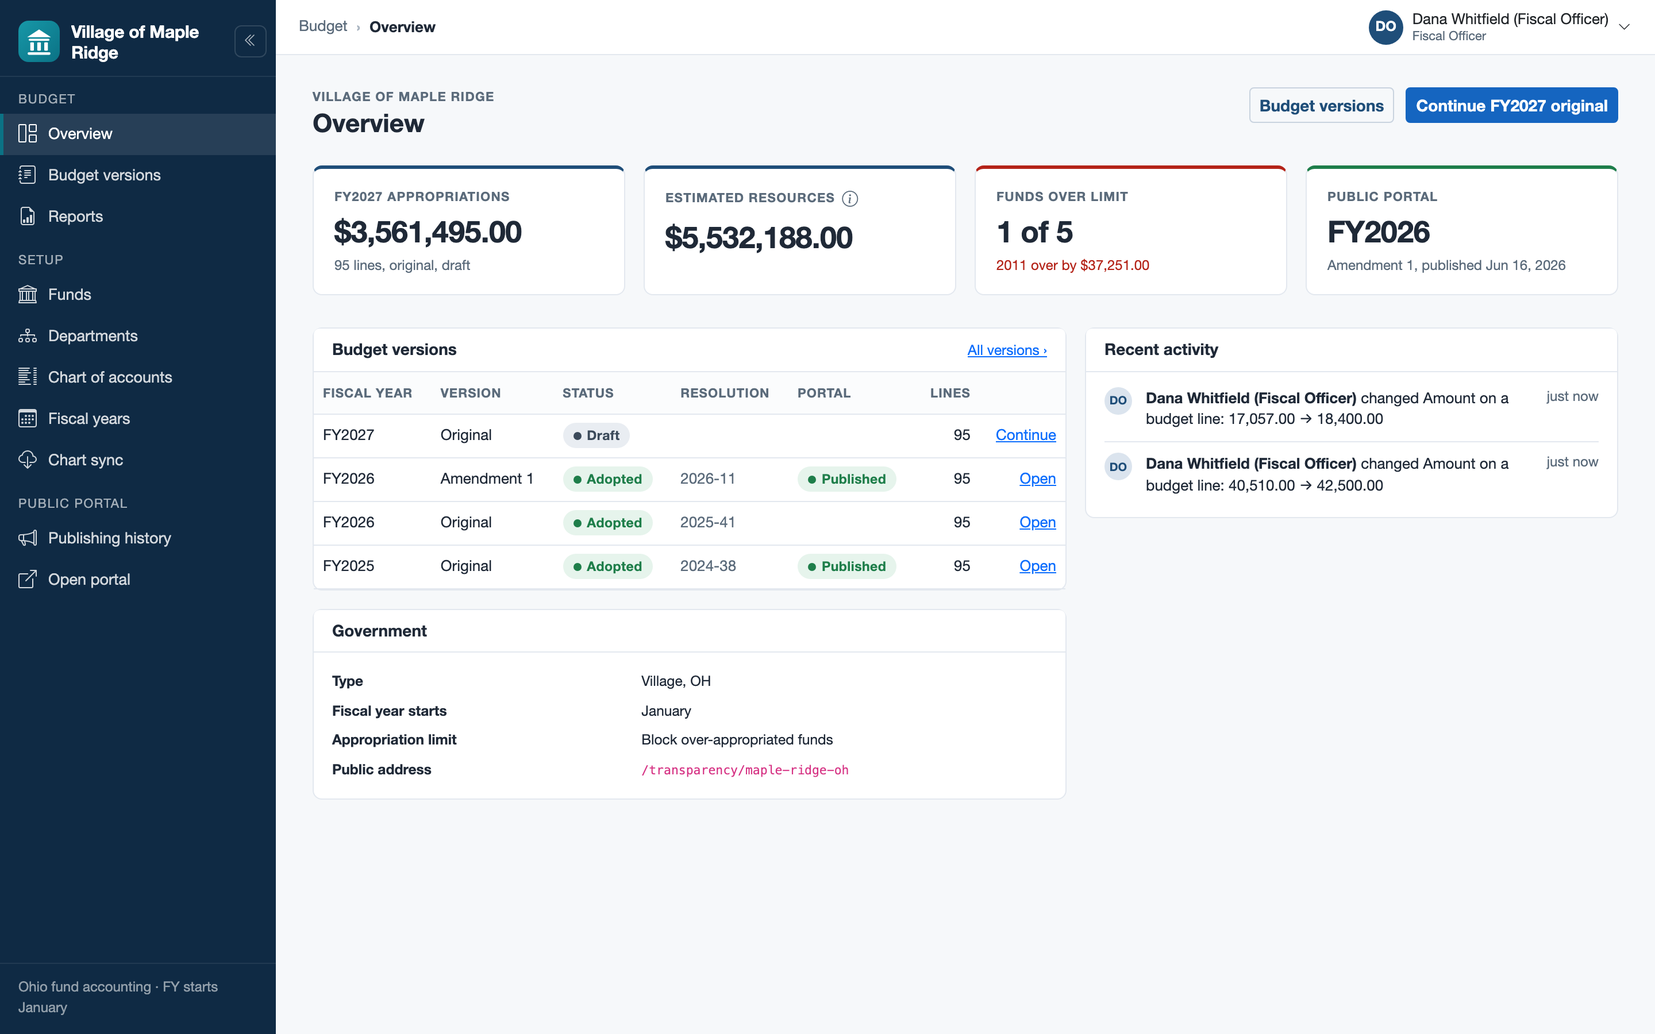
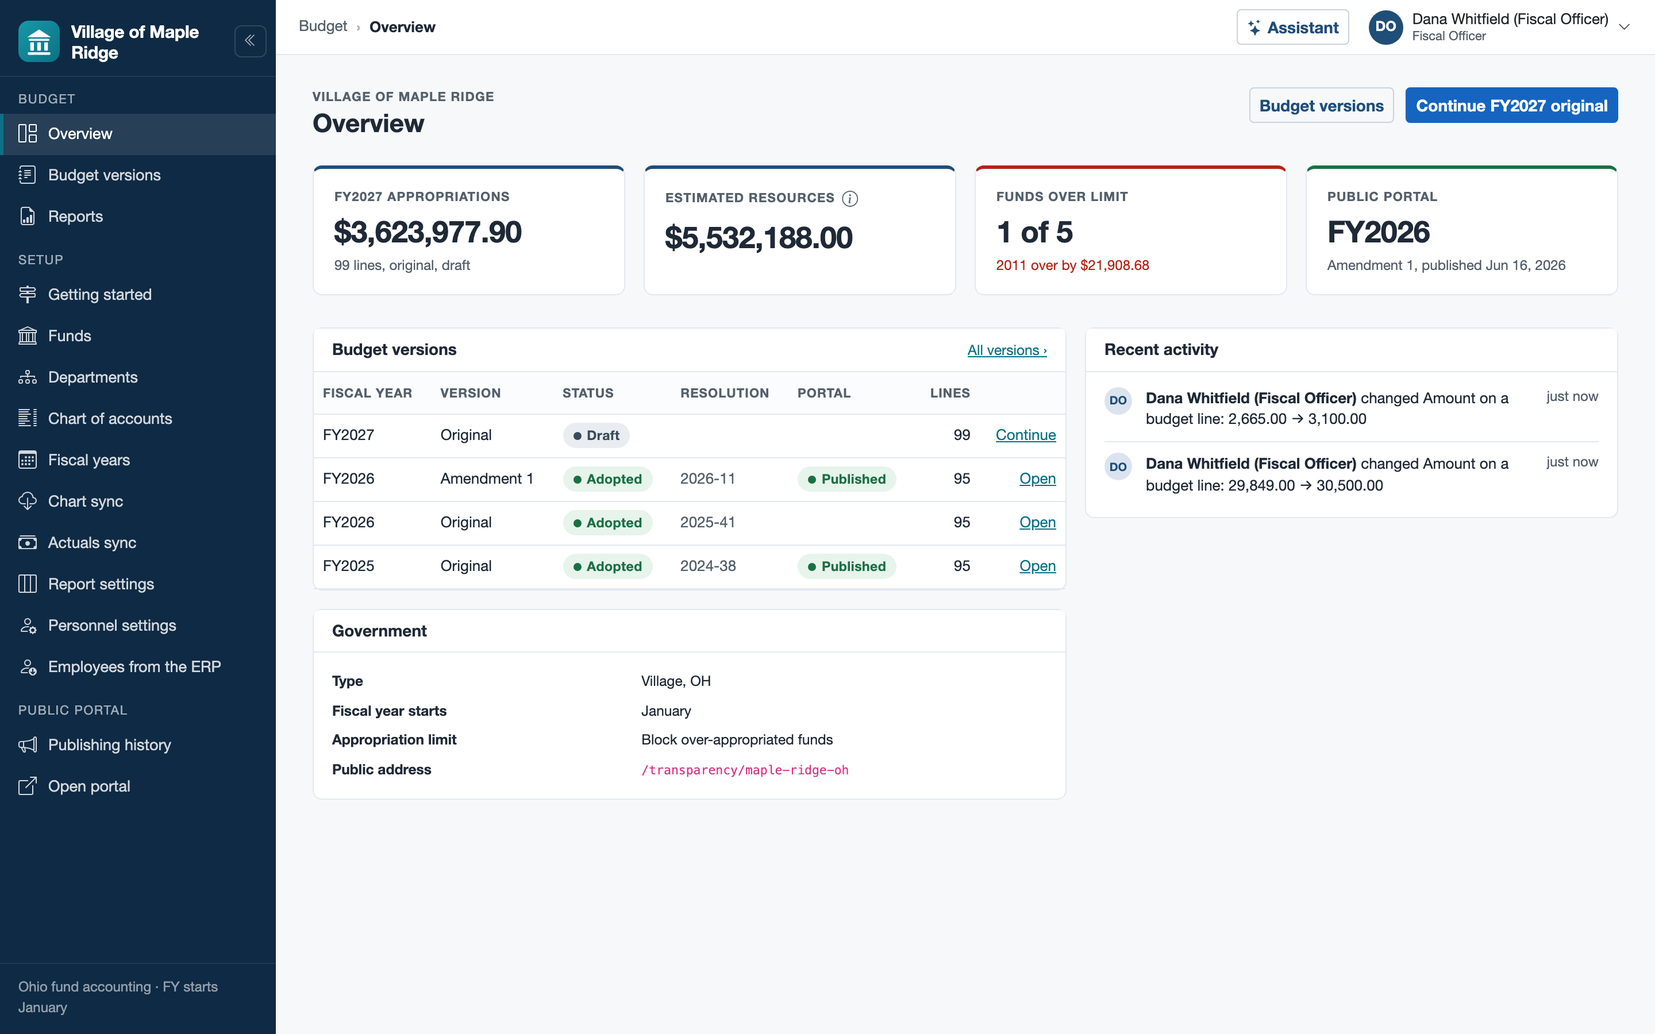
docs: lead the README and demo script with the AI features and forecasting
- README: an "AI and forecasting" section with six new screenshots, the
  two new phases in "Problems worth reading about", the demo logins say
  what to ask, and the walkthrough list and ADR count are current
- demo script: the assistant and the five-year plan come right after the
  portal; figures and the test count are current
- capture-ai.mjs takes the new screenshots (it needs a model); site-clips
  records the assistant, the portal question box, and the plan, and marks
  the model's wait so the encoder can speed up just that stretch
- capture.mjs no longer types into a line calculated from positions, and
  keeps its demo edits off the Street fund so every screenshot shows the
  same over-limit amount; every screenshot retaken from today's seed

diff --git a/README.md b/README.md
@@ -15,7 +15,8 @@ ERP rather than replace it, and every non-obvious decision is written down. All 
 fictional (the Village of Maple Ridge and Pine Hollow Township do not exist).
 
 The product site is **[spencersmith.site/CivicBudget](https://spencersmith.site/CivicBudget/)**:
-what it does, three short clips of it working, the security summary, and the demo logins.
+what it does, short clips of it working (the AI assistant and forecasting among them), the
+security summary, and the demo logins.
 
 It has two halves:
 
@@ -24,10 +25,42 @@ It has two halves:
   narrative and submits it, seeing this year's spending from the ERP beside each line; the fiscal officer sees live fund balances against the Ohio
   appropriation limit, moves the budget from draft to proposed to adopted, sends the adopted
   budget to the ERP with one button, amends it mid-year, imports and exports spreadsheets, prints reports, and publishes. Every change is
-  in an audit trail.
+  in an audit trail. Each budget carries a **five-year plan**, and this year's actuals are
+  **projected to year end** by last year's pattern. An **AI assistant** beside every page
+  answers questions, finds pages, reviews the budget, and drafts changes that only the user's
+  click makes.
 - **The public transparency portal**, for citizens. No sign-in, fast, readable on a phone,
   and no JavaScript at all. It shows only what was published: where the money comes from,
-  where it goes, each fund and department, year over year, search, and downloads.
+  where it goes, each fund and department, year over year, the multi-year outlook, search, and
+  downloads, and a **question box** that answers residents from the published budget and
+  nothing else.
+
+## AI and forecasting
+
+The newest work, and the part I would show first.
+
+- **An assistant that acts as you.** Its tools are the same Application services the pages
+  call, run as the signed-in user, so it sees what you can see and nothing more. Ask how the
+  year is going, and it reads budget against actual; ask "check my budget," and it lists what
+  must be fixed before council. ([ADR-0047](docs/DECISIONS.md#adr-0047-an-assistant-that-acts-only-through-the-application-services-as-the-signed-in-user))
+- **Changes you confirm.** "Raise utilities 5%," "build a five-year plan at 4% a year," "fix the
+  Street fund": each comes back as a card with every line before and after. No tool can commit;
+  only the card's button does, once, and a stale preview is refused whole. ([ADR-0048](docs/DECISIONS.md#adr-0048-the-assistant-proposes-only-the-users-click-commits))
+- **A public question box that cannot leak.** Residents ask the portal in their own words. Its
+  tools read only that government's published snapshot, so drafts, spending to date, and people
+  are not there to find; it says so, gives no opinions, and works without JavaScript. ([ADR-0049](docs/DECISIONS.md#adr-0049-a-question-box-on-the-portal-that-knows-only-the-published-budget))
+- **Five years ahead, and this year on pace.** A multi-year plan on every budget rolls each
+  fund's balance forward with the Ohio limit checked every year, and is published as an outlook.
+  This year's actuals from the ERP are paced by last year at the same month, so August's property
+  tax is not mistaken for a windfall. ([ADR-0044](docs/DECISIONS.md#adr-0044-a-multi-year-plan-on-each-budget-version-percentages-per-year-typed-years-balances-rolled-forward), [ADR-0037](docs/DECISIONS.md#adr-0037-reports-on-the-erps-books-are-paced-by-last-year-and-the-appropriation-measures-columns-are-settings))
+
+| The assistant, beside a report | A change, proposed and waiting for a click |
+|---|---|
+| ![Budget vs. Actual with the assistant open: asked how actuals compare so far this year, it answers that 70.5% of the $3,359,604.00 budget is used against 66.5% by the same month last year, goes fund by fund, names Capital Projects as the one to watch, links the report, and says what it looked at](docs/screenshots/admin-assistant.png) | ![The FY2027 worksheet with the assistant's card for "Raise utilities 5% in this budget": six utilities lines with their current and proposed amounts, $220,139.00 becoming $231,145.95, and Change 6 lines and Cancel buttons; nothing has changed yet](docs/screenshots/admin-assistant-proposal.png) |
+| **A resident's question on the portal** | **The multi-year plan** |
+| ![The portal's Ask a question page: asked about the police budget, the answer gives $986,213.00, up $49,113.00 from $937,100.00, the lines behind it, the department's own published notes, a reminder that these are budgeted amounts, and a link to the Police page](docs/screenshots/portal-ask.png) | ![The FY2027 multi-year plan: yearly revenue and spending percentages for FY2028 to FY2031, and each fund's projected ending balance to FY2031, with the Street and Capital Projects funds flagged in the years they would overspend](docs/screenshots/admin-plan.png) |
+| **This year, projected to year end** | **The outlook residents see** |
+| ![Projected Fund Balances through August 31, 2026: for each fund, budgeted and projected receipts and spending and the budgeted and projected ending balance; all funds end $119,624.88 better than budgeted](docs/screenshots/admin-report-projection.png) | ![The portal's outlook: FY2026 adopted and FY2027 to FY2030 as the plan, with totals, ending balances, the assumed changes, and each fund's ending balance by year](docs/screenshots/portal-outlook.png) |
 
 ## What it looks like
 
@@ -60,7 +93,8 @@ On a phone, the portal and the admin app both work at 390 px without sideways sc
 
 </details>
 
-The screenshots are regenerated by `scripts/screenshots/capture.mjs` from fresh seed data.
+The screenshots are regenerated by `scripts/screenshots/capture.mjs` from fresh seed data, and the
+AI and forecasting ones by `scripts/screenshots/capture-ai.mjs` (it needs a model connected).
 
 ## Try the live demo
 
@@ -76,14 +110,14 @@ All the demo logins share one password, published here on purpose: **`Demo-Bpe1G
 
 | Login | Role | What to try |
 |---|---|---|
-| `finance@mapleridge.example` | Fiscal Officer | The whole budget: the FY2027 draft (the Street fund is over its limit on purpose), the department board, workflow, amendments, publishing, import, reports, Setup, Actuals sync to fetch a year from the simulated ERP, and the FY2026 amendment's Send to ERP |
+| `finance@mapleridge.example` | Fiscal Officer | The **Assistant** in the top bar: "How are actuals compared to our budget so far this year?", "Check my budget before I propose it", "Raise utilities 5% in this budget" (then confirm the card); the FY2027 **Plan**; the whole budget: the FY2027 draft (the Street fund is over its limit on purpose), the department board, workflow, amendments, publishing, import, reports, Setup, Actuals sync to fetch a year from the simulated ERP, and the FY2026 amendment's Send to ERP |
 | `police@mapleridge.example` | Department User | Lands on the Police department's request, which is already submitted and so locked |
 | `streets@mapleridge.example` | Department User | Streets & Service, still being entered; Parks & Recreation, returned with a note from the fiscal officer |
 | `admin@mapleridge.example` | Administrator | Everything the Fiscal Officer can do, plus users, government settings, and the logo |
 | `viewer@mapleridge.example` | Viewer | Read-only |
 | `admin@pinehollow.example` | Administrator of a second government | Pine Hollow Township only: proof that one government never sees another's data |
 
-The public portal needs no login: [Village of Maple Ridge](https://civicbudget-app.ashysmoke-cd0f52a4.centralus.azurecontainerapps.io/transparency/maple-ridge-oh).
+The public portal needs no login: [Village of Maple Ridge](https://civicbudget-app.ashysmoke-cd0f52a4.centralus.azurecontainerapps.io/transparency/maple-ridge-oh). Try its **Outlook** and **Ask a question**.
 
 The AI features are switched on for Maple Ridge: the **Assistant** button in the top bar (ask
 "how are actuals compared to our budget so far this year?" or "raise utilities 5% in the FY2027
@@ -222,6 +256,18 @@ that would have been wrong.
   the pages call, run as the signed-in user, so a department head's assistant sees a department
   head's data and nothing else; the model never touches the database. Off until a government's
   Administrator turns it on. ([ADR-0047](docs/DECISIONS.md#adr-0047-an-assistant-that-acts-only-through-the-application-services-as-the-signed-in-user), [Walkthrough 35](docs/walkthroughs/35-assistant.md))
+- **An AI that can change the budget, but only when you click.** The assistant proposes; a card
+  shows every line before and after; only the card's button, which the model cannot reach,
+  commits. The commit goes through the page's own service, a line that moved since the preview
+  refuses the whole change, and arithmetic like "cut the Street fund to its limit" is code, not
+  the model. Testing against a real model found what the scripted tests could not, including a
+  cent that moved between reseeds. ([ADR-0048](docs/DECISIONS.md#adr-0048-the-assistant-proposes-only-the-users-click-commits), [Walkthrough 36](docs/walkthroughs/36-assistant-actions.md))
+- **A public chatbot that cannot say what was never published.** The portal's question box reads
+  only the published snapshot of one government, through the portal's own read-only context, so
+  a draft or a salary cannot leak however the question is worded. It works without JavaScript,
+  refuses a question before touching the database when no model is connected (so the free demo
+  database can still sleep), and caps questions per address and per month with one atomic
+  update. ([ADR-0049](docs/DECISIONS.md#adr-0049-a-question-box-on-the-portal-that-knows-only-the-published-budget), [Walkthrough 37](docs/walkthroughs/37-portal-questions.md))
 
 ## Run it locally
 
@@ -321,8 +367,10 @@ deployed; it shows the production-shaped design. See [infra/README.md](infra/REA
    [32 The multi-year plan](docs/walkthroughs/32-multi-year-plan.md) ·
    [33 The ERP partner kit](docs/walkthroughs/33-erp-partner-kit.md) ·
    [34 The printable budget book](docs/walkthroughs/34-budget-book.md) ·
-   [35 The assistant](docs/walkthroughs/35-assistant.md)
-4. [docs/DECISIONS.md](docs/DECISIONS.md) when you want to know why: 47 decision records, each
+   [35 The assistant](docs/walkthroughs/35-assistant.md) ·
+   [36 The assistant proposes, you confirm](docs/walkthroughs/36-assistant-actions.md) ·
+   [37 Questions from the public](docs/walkthroughs/37-portal-questions.md)
+4. [docs/DECISIONS.md](docs/DECISIONS.md) when you want to know why: 49 decision records, each
    with the alternatives I turned down, and the table of every package and why it is there.
 5. Then the code, starting at `src/CivicBudget.Domain/Budgets/BudgetVersion.cs`, the heart of it.
 

diff --git a/docs/DEMO-SCRIPT.md b/docs/DEMO-SCRIPT.md
@@ -1,4 +1,4 @@
-# Demo script (about ten minutes)
+# Demo script (about twelve minutes)
 
 What I show, in what order, and what I say at each stop. It works on the
 [live demo](../README.md#try-the-live-demo) or locally
@@ -11,8 +11,10 @@ If the live demo has been idle, open it a minute early so the database is awake.
 "Ohio's local governments build an appropriation budget every year, fund by fund, and
 the law says appropriations can't exceed each fund's certified estimated resources.
 CivicBudget is that workflow, for several governments at once, plus the public portal
-citizens see at the end. It's built to sit beside the government's ERP rather than
-replace it. .NET 10, Blazor, EF Core, SQL Server. All the data is fictional."
+citizens see at the end. It plans five years ahead, and it has an AI assistant that works
+only as the signed-in user and changes nothing without a click. It's built to sit beside
+the government's ERP rather than replace it. .NET 10, Blazor, EF Core, SQL Server. All the
+data is fictional."
 
 ## 1. The public portal, before signing in (1.5 minutes)
 
@@ -26,12 +28,52 @@ Open `/transparency/maple-ridge-oh`.
   with its numbers."
 - Point at the year pills. "Every published year. The portal only ever reads frozen
   snapshots of adopted budgets; there's no code path to a draft."
+- **Outlook**: "The five-year plan is published with the budget: each year's totals and each
+  fund's balance, with the assumptions shown, and a plain line that these years are a plan."
+- **Ask a question**: ask "How much is budgeted for police, and how does it compare to last
+  year?" The answer quotes the published figures and links the Police page. Then ask "How much
+  has the village actually spent so far this year?" "It says that isn't published. Its tools
+  read the published snapshot and nothing else, so it can't leak a draft or the ERP's books,
+  and it works with JavaScript off."
 - Optional: the browser's network tab, reload, and show `Cache-Control: public,
   max-age=600`. "Cached per government; publishing clears that government's pages."
 
-## 2. The fiscal officer's workspace (2.5 minutes)
+## 2. The assistant (2.5 minutes)
 
-Sign in as `finance@mapleridge.example`, then **Continue FY2027** on the overview.
+Sign in as `finance@mapleridge.example` and open the **Assistant** in the top bar.
+
+- Ask "How are actuals compared to our budget so far this year?" "It looked that up in the
+  same budget-against-actual report the Reports page shows, as me, and says so under the
+  answer. The model never sees the database."
+- Open the FY2027 draft and ask "Check my budget before I propose it." "What must be fixed
+  first: the Street fund is over the Ohio limit. Then what council will ask about: departments
+  not in, changes with no justification."
+- Ask "Fix the Street fund." "A card: every spending line in that fund, cut in proportion to
+  land exactly on the limit. The arithmetic is code, not the model. Nothing has changed." Click
+  **Cancel** (the red fund is needed in section 6).
+- Ask "Raise utilities 5% in this budget." Check the card against the grid, click **Change 6
+  lines**, and the grid shows the new amounts. Row menu, **History** on one of them: "The
+  change is in the audit trail under my name, and a separate audit entry records that the
+  assistant proposed it. If someone had changed a line since the preview, nothing would change
+  and it would say which."
+- Optional, in a private window as `police@mapleridge.example`: ask for Finance's budget. "It
+  can't see it, because the chief can't."
+
+## 3. Five years ahead (1.5 minutes)
+
+- Budget versions, FY2027, **Plan**. "Every budget carries a plan: a revenue and a spending
+  percentage per year, balances rolled forward, the Ohio limit checked every year." Set 4% and
+  3% under **Same change every year**, **Use for every year**, **Save the plan**: every fund's
+  ending balance moves. "Nothing projected is stored, so the plan can never disagree with the
+  budget."
+- Reports, pick **FY2026 Amendment 1**, **Revenue vs. Receipts**. "Real estate taxes are 96%
+  collected in August, and that is normal: last year it was 95% by now. A straight line would
+  call that ahead; income tax at 67% against 65% is the one to watch." Then **Projected Fund
+  Balances**: "Each line projected from last year's pattern, not a straight line."
+
+## 4. The fiscal officer's workspace (2 minutes)
+
+Still as `finance@mapleridge.example`, **Continue FY2027** on the overview.
 
 - "The admin side is interactive, because staff need live grids. One connection per
   finance user is fine; one per citizen wouldn't be, which is why the portal isn't."
@@ -65,7 +107,7 @@ Sign in as `finance@mapleridge.example`, then **Continue FY2027** on the overvie
 - **Getting started**: "A new government is set up with one command, and its administrator
   follows this list, worked out from what exists."
 
-## 3. The police chief's view (1 minute)
+## 5. The police chief's view (1 minute)
 
 In a private window, sign in as `police@mapleridge.example`. "No overview and no other
 departments: the chief lands in the police department for the budget in progress."
@@ -75,10 +117,10 @@ officer's window, return it with a note, then refresh the chief's page: the note
 there and the amounts are editable again. "One rule decides who may edit a line; the
 fiscal officer is never locked out."
 
-## 4. The limit and the workflow (1.5 minutes)
+## 6. The limit and the workflow (1.5 minutes)
 
-- Point at the fund balance panel: the Street fund (2011) is red. "It appropriates about
-  $36,000 more than it expects to have. This government is in Block mode, so the workflow
+- Point at the fund balance panel: the Street fund (2011) is red. "It appropriates
+  $21,908.68 more than it expects to have. This government is in Block mode, so the workflow
   refuses to move." Click **Propose to council** and show the refusal.
 - Raise the Street fund's beginning balance by $40,000 (or cut its infrastructure line)
   and Propose goes through. "Staff can save a budget that's out of balance while they
@@ -89,7 +131,7 @@ fiscal officer is never locked out."
   snapshot with its own names and codes, so renaming an account next year can't change
   what citizens saw this year."
 
-## 5. Import, reports, and next year (2 minutes)
+## 7. Import, reports, and next year (1.5 minutes)
 
 - Tools, **Export lines (XLSX)**. "The same columns the import reads: export, edit in
   Excel, import."
@@ -117,12 +159,8 @@ fiscal officer is never locked out."
   **Download PDF**. Switch to FY2027: "Before the ERP closes 2026 it uses the budget's estimate,
   and says so; and the Street fund is over its total." Setup, **Report settings**: "Which
   accounts are taxes is the village's choice, and the headings follow the county's template."
-- Reports, pick **FY2026 Amendment 1**, **Revenue vs. Receipts**. "Real estate taxes are 96%
-  collected in August, and that is normal: last year it was 95% by now. A straight line would
-  call that ahead; income tax at 67% against 65% is the one to watch." Then **Projected Fund
-  Balances**: "Each line projected from last year's pattern, not a straight line."
 
-## 6. The code, briefly (2 minutes)
+## 8. The code, briefly (2 minutes)
 
 In the editor, in this order:
 
@@ -133,11 +171,16 @@ In the editor, in this order:
    logo, nothing else, and `SaveChanges` throws.
 4. `Web/Startup/WakingUpMiddleware.cs`: "how the site answers in seconds while a sleeping
    database wakes up."
-5. `infra/CivicBudget.Infra/CivicBudgetStack.cs`: "deploy-ready on AWS, synthesized and
+5. `Application/Assistant/ActionTools.cs`: "every action proposes; only the card's button,
+   through `AssistantService.ConfirmAsync`, commits, and it goes through the page's own service."
+6. `Application/Assistant/PortalTools.cs`: "the public bot's tools are the portal's own reads,
+   for one government, and none of them takes a government."
+7. `infra/CivicBudget.Infra/CivicBudgetStack.cs`: "deploy-ready on AWS, synthesized and
    tested in CI."
 
-Close with the numbers: four projects plus tests and infrastructure, about 640 tests
-including a real SQL Server in Docker, and every phase a pull request with a walkthrough.
+Close with the numbers: four projects plus tests and infrastructure, about 1,175 tests
+including a real SQL Server in Docker and an evaluation set run against the real model, and
+every phase a pull request with a walkthrough.
 
 ## If something goes wrong
 
@@ -146,3 +189,7 @@ including a real SQL Server in Docker, and every phase a pull request with a wal
   data survives.
 - You need fresh data: `docker compose down -v && docker compose up -d`, then run the app
   (locally), or wait for the nightly reset (live).
+- The Assistant button is missing: no model is connected. Locally, set `Assistant:ApiKey` (and
+  `Assistant:Provider` and `Assistant:Model` for Ollama) in the web project's user-secrets; on
+  Azure, run `./scripts/azure-assistant.sh`. An answer takes a few seconds on the demo's small
+  model.

diff --git a/CHANGELOG.md b/CHANGELOG.md
@@ -6,6 +6,7 @@ walkthrough in [docs/walkthroughs](docs/walkthroughs). Format loosely follows
 
 ## [Unreleased]
 ### Changed
+- **The README, the demo script, and the product site lead with the AI features and forecasting:** a new "AI and forecasting" section in the README with six screenshots (the assistant answering, a proposal card, a resident's question, the multi-year plan, the projection, the outlook), the two new phases in "Problems worth reading about", and a demo script that shows the assistant and the plan early. `scripts/screenshots/capture-ai.mjs` takes the new screenshots (it needs a model), and `site-clips.mjs` records the assistant, the question box, and the plan. The existing screenshot script typed into Police overtime, which is calculated from positions now; it edits two typed General Fund lines instead.
 - **The live demo has the AI features:** the assistant and the portal's question box run on GLM 5.3 Flash (Ollama Cloud). `scripts/azure-assistant.sh` stores the key as a Container App secret (`--off` removes it); the Bicep template takes it as an optional parameter for the web app only, `azure-setup.sh` keeps it on a rerun, and the demo's portal takes 200 questions a month per government.
 ### Fixed
 - **A position split evenly between funds gives its odd cent to the lowest fund number**, not the fund with the lower id. Ids made in the same millisecond differ from one seed to the next, so the demo's Street fund over-limit amount moved by a cent or two between reseeds. The other funds' parts now round down, so the fund with the largest share (the lowest number, on a tie) always takes the odd cent rather than sometimes giving it away. The calculator gets the numbers from `PayrollRules.FundCodes` (ADR-0038, amended). The demo's Street fund is now over its limit by $21,908.68 on every reseed.

diff --git a/docs/walkthroughs/29-product-site.md b/docs/walkthroughs/29-product-site.md
@@ -58,6 +58,13 @@ Three silent clips, recorded by Playwright from a freshly seeded copy of the app
 3. **Portal:** on a phone, the overview, the General Fund, and the Police department's own
    narrative.
 
+*Since Phase 38:* the site leads with the AI assistant and forecasting, in two new sections, and
+three more clips: the assistant proposing a utilities raise that the fiscal officer confirms, a
+resident asking the portal where road money comes from, and the multi-year plan rolling every
+fund forward. In the two AI clips the model's few seconds of thinking play eight times faster,
+and the captions say so; `site-clips.mjs` records when the wait starts and ends so the encoder
+can speed up just that stretch.
+
 A few things I learned making them:
 - **Headless recordings have no cursor.** Clicks look like magic, so the script injects a small
   pointer that follows the mouse and moves it in steps.
